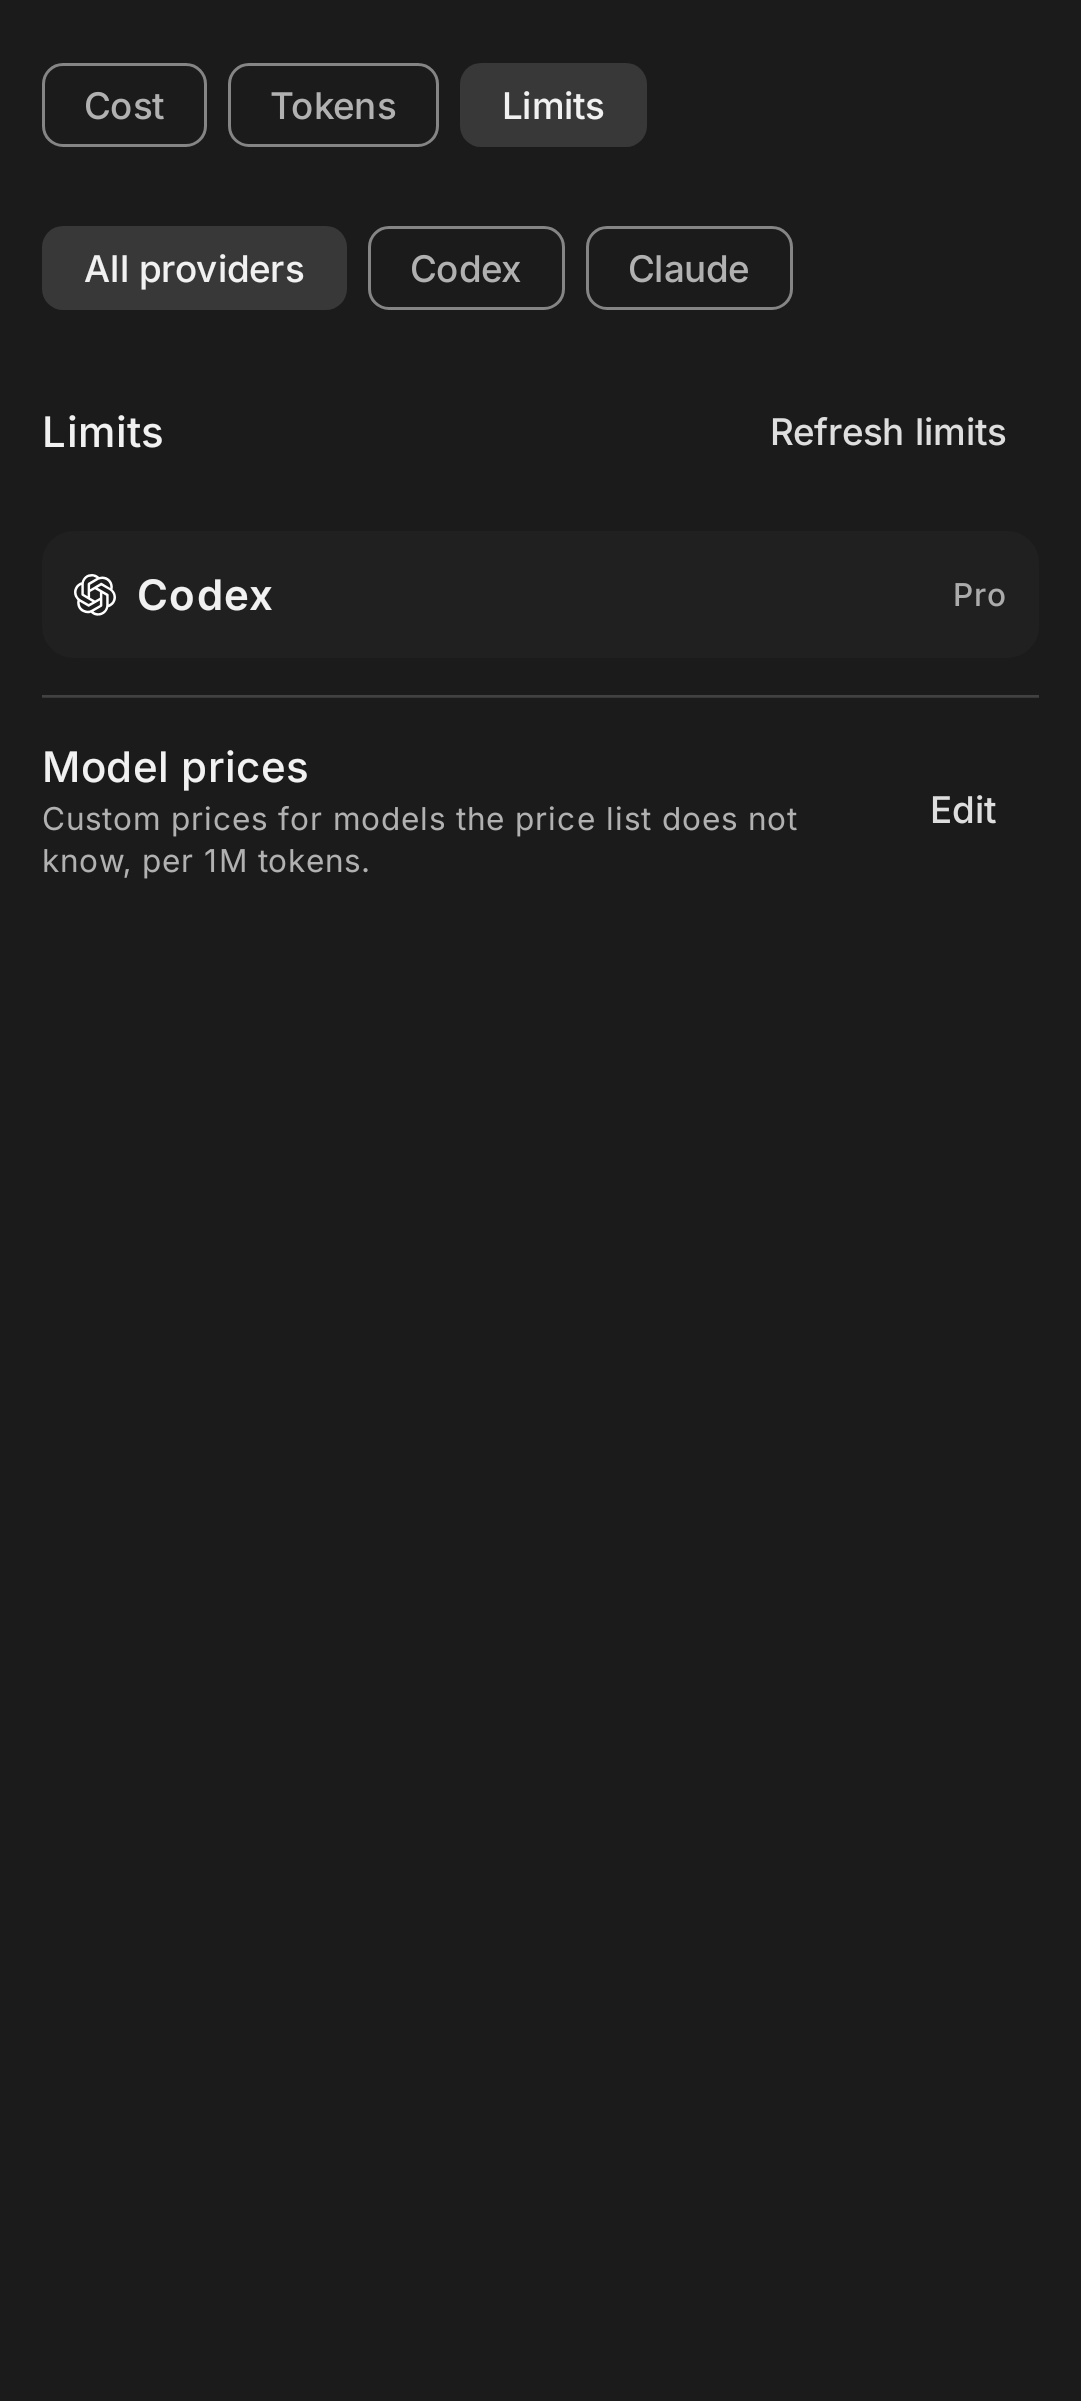
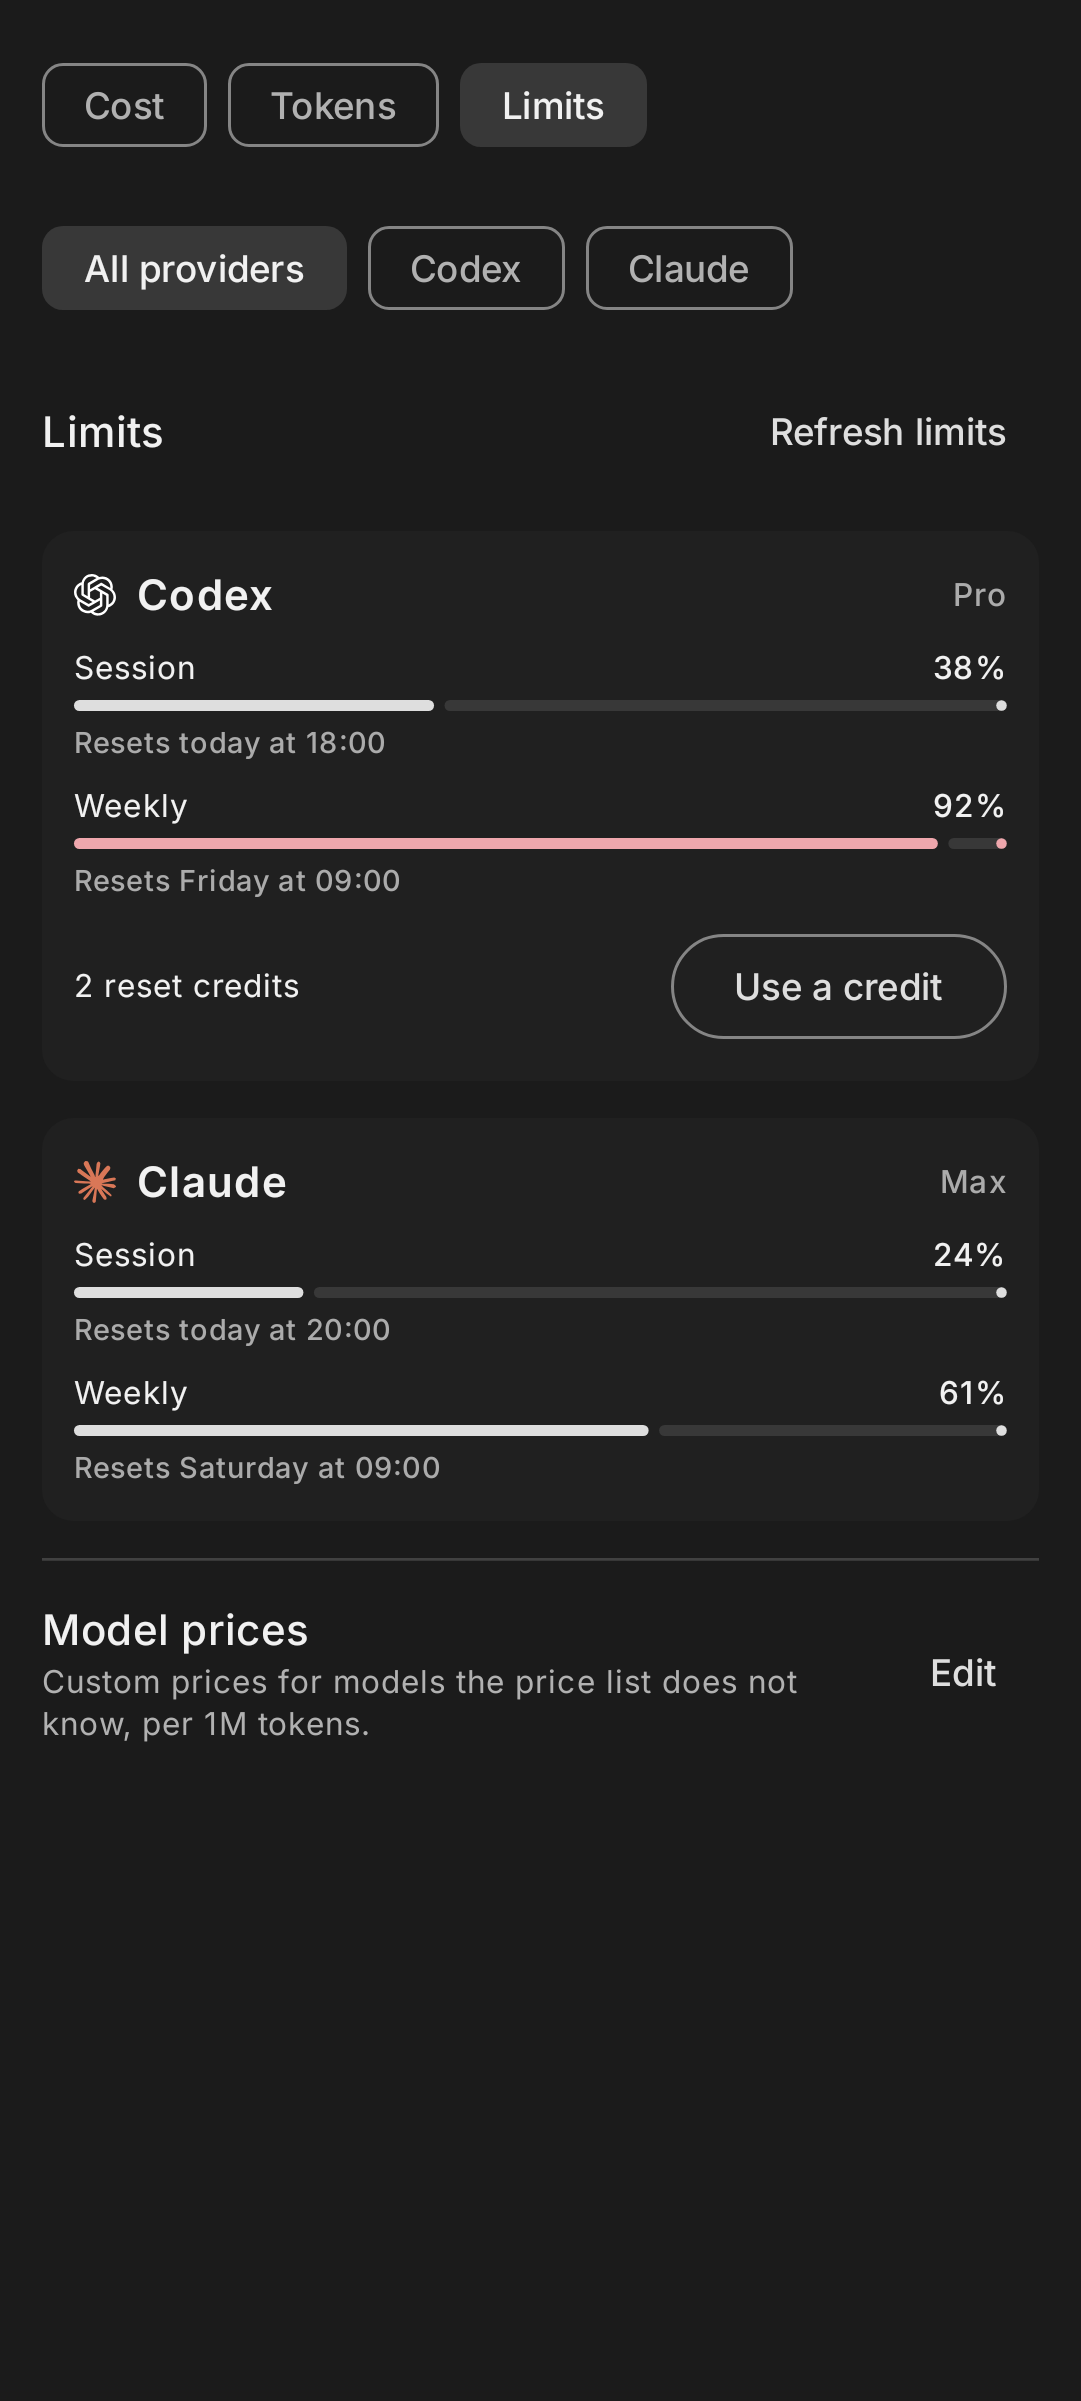
test(mobile): capture populated usage limits and dialogs

diff --git a/mobile/androidApp/src/test/kotlin/com/restartfu/xd/mobile/ui/UsageScreenshotTest.kt b/mobile/androidApp/src/test/kotlin/com/restartfu/xd/mobile/ui/UsageScreenshotTest.kt
@@ -50,7 +50,7 @@ class UsageScreenshotTest {
     @get:Rule val compose = createAndroidComposeRule<androidx.activity.ComponentActivity>()
     @Test fun usage() {
         val scope = CoroutineScope(SupervisorJob() + Dispatchers.Default)
-        val client = XdClient({ error("No network in fixture") }, NoCredentials, scope)
+        val client = XdClient({ PriceSocket() }, NoCredentials, scope)
         val model = UsageViewModel(client, MobileSettings(compose.activity))
         compose.mainClock.autoAdvance = false
         compose.setContent {
@@ -71,7 +71,16 @@ class UsageScreenshotTest {
                 UsageBucketReply("day$day", provider = "codex", model = "gpt-5", costUsd = day * 0.4, totals = UsageTotalsReply(uncachedInput = day * 10000L, output = day * 2000L)),
                 UsageBucketReply("day$day", provider = "claude", model = "claude-sonnet", costUsd = day * 0.2, totals = UsageTotalsReply(uncachedInput = day * 5000L, output = day * 1000L)),
             ) }, sessions = mapOf("codex" to 4, "claude" to 2)),
-            accounts = listOf(UsageAccountReply(provider = "codex", plan = "Pro")))
+            accounts = listOf(
+                UsageAccountReply(provider = "codex", accountKey = "fixture-codex", plan = "Pro", windows = listOf(
+                    UsageWindowReply("primary", "session", "Session", 38.0, resetsAtLabel = "today at 18:00"),
+                    UsageWindowReply("secondary", "weekly", "Weekly", 92.0, resetsAtLabel = "Friday at 09:00"),
+                ), resetCredits = ResetCreditsReply(2)),
+                UsageAccountReply(provider = "claude", plan = "Max", windows = listOf(
+                    UsageWindowReply("primary", "session", "Session", 24.0, resetsAtLabel = "today at 20:00"),
+                    UsageWindowReply("secondary", "weekly", "Weekly", 61.0, resetsAtLabel = "Saturday at 09:00"),
+                )),
+            ))
         settle()
         capture("overview")
         compose.onNodeWithText("Cost").performClick()
@@ -97,17 +106,84 @@ class UsageScreenshotTest {
         compose.onNodeWithText("Cost").performClick()
         settle()
         compose.onNodeWithText("$5.60").assertIsDisplayed()
+        // Complete the Limits evidence with populated windows and reset confirmation.
+        model.showProvider("All providers")
+        model.showMetric("Limits")
+        settle()
+        compose.onNodeWithText("Use a credit").performScrollTo().performClick()
+        settle()
+        capture("reset-confirmation")
+        compose.onNodeWithText("Cancel").performClick()
+        settle()
+        val populated = state.value
+        state.value = populated.copy(accounts = listOf(UsageAccountReply(provider = "claude", unavailable = UsageUnavailableReply("probeFailed", "Could not read Claude limits. Try refreshing."))))
+        settle()
+        capture("limits-unavailable")
+        state.value = populated.copy(accounts = emptyList())
+        settle()
+        capture("limits-empty")
+        state.value = populated.copy(accounts = null, limitsError = "The host could not read limits.")
+        settle()
+        capture("limits-error")
+        state.value = populated.copy(accounts = null, limitsLoading = true)
+        settle()
+        capture("limits-loading")
+        state.value = populated
+        runBlocking { client.connect(SshConnection("host", 22, "dev", SshAuthentication.Password("x"), SshHostKey("ssh-ed25519", byteArrayOf(1), "SHA256:test"))) }
+        settle()
+        check(runBlocking { model.prices() }.prices.containsKey("custom-model"))
+        val edit = compose.onNodeWithText("Edit").performScrollTo().fetchSemanticsNode()
+        // A populated editor has blinking text cursors; do not wait for idle after opening it.
+        compose.runOnUiThread { edit.config[androidx.compose.ui.semantics.SemanticsActions.OnClick].action?.invoke() }
+        settle()
+        capture("prices")
         scope.cancel()
     }
     private fun settle() { repeat(20) { compose.mainClock.advanceTimeBy(100); Thread.sleep(10) }; org.robolectric.shadows.ShadowLooper.idleMainLooper() }
     private fun capture(name: String) {
         val view = compose.activity.window.decorView
         val bitmap = Bitmap.createBitmap(view.width, view.height, Bitmap.Config.ARGB_8888)
-        view.draw(android.graphics.Canvas(bitmap))
+        val canvas = android.graphics.Canvas(bitmap)
+        view.draw(canvas)
+        val global = Class.forName("android.view.WindowManagerGlobal")
+        val instance = global.getMethod("getInstance").invoke(null)
+        val field = global.getDeclaredField("mViews").apply { isAccessible = true }
+        @Suppress("UNCHECKED_CAST")
+        val views = (field.get(instance) as List<android.view.View>).toList()
+        for (dialog in views.drop(views.indexOf(view) + 1)) {
+            if (dialog.width == 0) continue
+            canvas.drawColor(android.graphics.Color.argb(82, 0, 0, 0))
+            canvas.save()
+            canvas.translate((view.width - dialog.width) / 2f, (view.height - dialog.height) / 2f)
+            dialog.draw(canvas)
+            canvas.restore()
+        }
         System.getProperty("xd.shots")?.let { path ->
             File(path).mkdirs()
             File(path, "$name.png").outputStream().use { bitmap.compress(Bitmap.CompressFormat.PNG, 100, it) }
         }
+    }
+    /** Only price reads are used; no reset operation can reach a real host. */
+    private class PriceSocket : PlatformSocket {
+        private var listener: PlatformSocketListener? = null
+        override fun connect(connection: SshConnection, listener: PlatformSocketListener) {
+            this.listener = listener
+            Thread { listener.onConnected() }.start()
+        }
+        override fun send(bytes: ByteArray) {
+            bytes.decodeToString().lines().filter { it.isNotBlank() }.forEach { line ->
+                val request = Json.parseToJsonElement(line).jsonObject
+                val id = request["_xd_request"]?.jsonPrimitive?.longOrNull
+                val op = request["op"]?.jsonPrimitive?.content
+                val body = if (op == "usage-prices")
+                    """{"ok":true,"aliases_optional":true,"prices":{"custom-model":{"input":2.0,"output":8.0,"cache_read":0.2,"cache_write":2.5}}}"""
+                    else if (op == "tree") """{"ok":true,"folders":[],"chats":[]}"""
+                    else """{"ok":true}"""
+                val reply = body.dropLast(1) + (if (id != null) ""","_xd_request":$id}""" else "}")
+                Thread { listener?.onBytes((reply + "\n").encodeToByteArray()) }.start()
+            }
+        }
+        override fun close() = Unit
     }
     private object NoCredentials : CredentialStore {
         override suspend fun load(): StoredCredentials? = null
